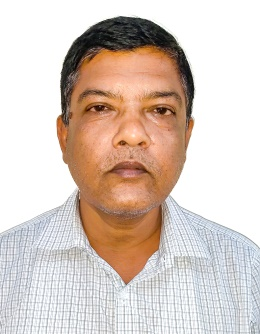
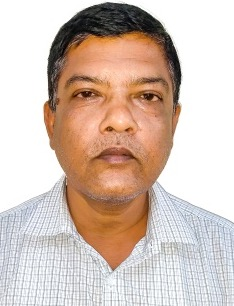
fix(about-us): make headshot background white and eliminate document border lines

diff --git a/src/pages/AboutUs.tsx b/src/pages/AboutUs.tsx
@@ -123,15 +123,16 @@ export default function AboutUs() {
                   {/* Subtle Corner Glow */}
                   <div className="absolute top-0 right-0 w-24 h-24 bg-[var(--color-saffron)]/10 rounded-bl-full pointer-events-none group-hover:scale-125 transition-transform duration-500" />
 
-                  {/* Circular Headshot Frame */}
-                  <div className="relative mb-4 p-1 rounded-full bg-gradient-to-b from-[var(--color-saffron)]/30 via-amber-200/20 to-transparent shadow-sm">
-                    <img
-                      src={official.photo}
-                      alt={`Headshot of ${official.name}, ${official.designation}`}
-                      loading="lazy"
-                      className="w-28 h-28 sm:w-32 sm:h-32 rounded-full object-cover object-top border-4 border-white shadow-md group-hover:scale-105 transition-transform duration-300 bg-amber-50"
-                    />
-                    <div className="absolute inset-0 rounded-full border border-[var(--color-saffron)]/20 pointer-events-none" />
+                  {/* Circular Headshot Frame - Pure White Background */}
+                  <div className="relative mb-4 p-1.5 rounded-full bg-white shadow-md border border-[#C19A6B]/25 group-hover:border-[var(--color-saffron)]/50 transition-colors duration-300">
+                    <div className="w-28 h-28 sm:w-32 sm:h-32 rounded-full overflow-hidden bg-white ring-2 ring-white">
+                      <img
+                        src={official.photo}
+                        alt={`Headshot of ${official.name}, ${official.designation}`}
+                        loading="lazy"
+                        className="w-full h-full rounded-full object-cover object-top group-hover:scale-108 transition-transform duration-300 bg-white"
+                      />
+                    </div>
                   </div>
 
                   {/* Role Wing Tag */}
